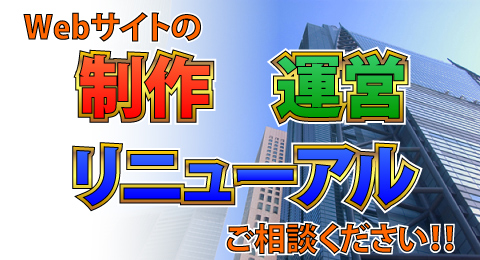
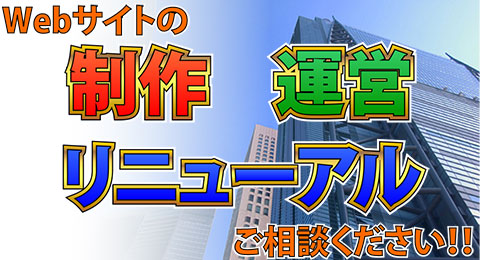
PCトップ画像のgifアニメーション化

diff --git a/index.html b/index.html
@@ -130,10 +130,6 @@ $(function(){
 	
 	<div class="top">
 		<img class="sp-img" data-img="images/top_sp.jpg" alt="トップ画像" />
-		<!--
-		<img id="img1" src="images/4.jpg" alt="#" />
-		<img id="img2" src="images/3.jpg" alt="#" />
-		-->
 	</div>
 	
 	<section id="sect1" class="moji_size">

diff --git a/js/my_script.js b/js/my_script.js
@@ -117,7 +117,7 @@ $(function() {
 	});
 	$(window).bind('enterBreakpoint480',function() {
 		$('.sp-img').each(function() {
-			$(this).attr('src', $(this).data('img').replace('_sp', '_pc'));
+			$(this).attr('src', $(this).data('img').replace('_sp.jpg', '_pc.gif'));
 		});
 	});
 });
